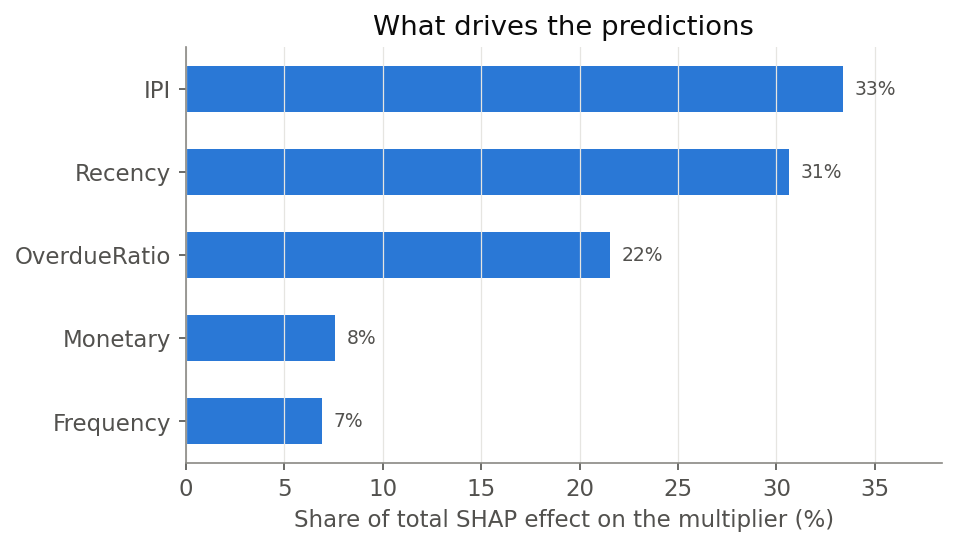
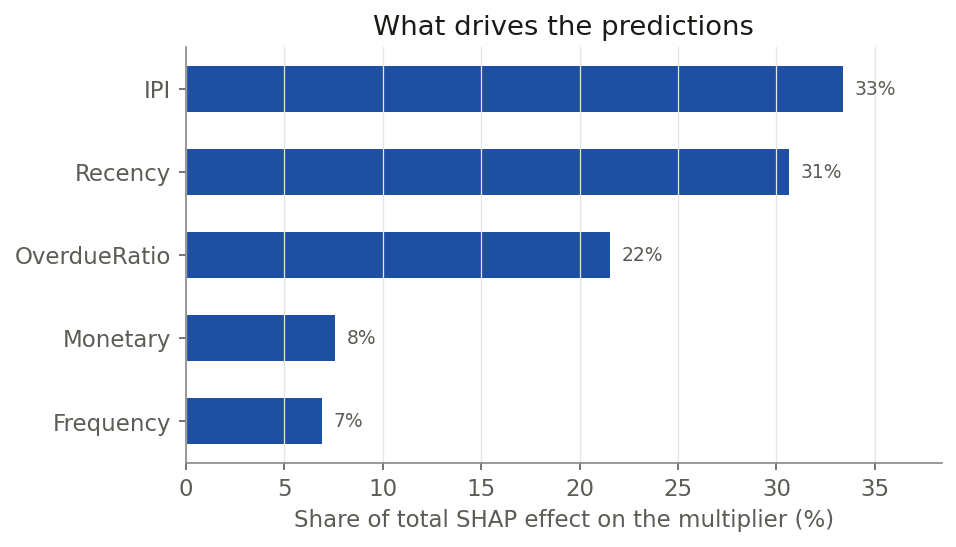
better palette and google fonts

diff --git a/site/src/styles.css b/site/src/styles.css
@@ -1,10 +1,10 @@
 /* Editorial look: warm paper, serif headings, one blue accent, one orange highlight, lots of white space. */
 :root{
-  --bg:#faf8f4;--card:#ffffff;--ink:#1b1a17;--mut:#5d5b55;--line:#e4e0d7;--acc:#1f4fa3;--accd:#1f4fa3;--soft:#f0ece3;--warn:#b4491f;--hi:#d9531e;
-  --serif:"Iowan Old Style","Palatino Linotype",Palatino,Georgia,"Times New Roman",serif;
-  --sans:Inter,system-ui,-apple-system,"Segoe UI",Roboto,sans-serif;
+  --bg:#faf8f4;--card:#ffffff;--ink:#1b1a17;--mut:#5d5b55;--line:#e4e0d7;--acc:#1f4fa3;--accd:#1f4fa3;--soft:#f0ece3;--warn:#b4491f;--hi:#d9531e;--hit:#b8430f;
+  --serif:"Source Serif 4 Variable","Iowan Old Style","Palatino Linotype",Palatino,Georgia,serif;
+  --sans:"Inter Variable",Inter,system-ui,-apple-system,"Segoe UI",Roboto,sans-serif;
 }
-@media (prefers-color-scheme:dark){:root{--bg:#16150f;--card:#1f1e18;--ink:#f1eee6;--mut:#bdb9ac;--line:#37342b;--acc:#7fa8ee;--accd:#3f6fc9;--soft:#25231b;--warn:#ee9166;--hi:#f08a5d}}
+@media (prefers-color-scheme:dark){:root{--bg:#16150f;--card:#1f1e18;--ink:#f1eee6;--mut:#bdb9ac;--line:#37342b;--acc:#7fa8ee;--accd:#3f6fc9;--soft:#25231b;--warn:#ee9166;--hi:#f08a5d;--hit:#f08a5d}}
 *{box-sizing:border-box}
 html{scroll-behavior:smooth;scroll-padding-top:70px}
 body{margin:0;background:var(--bg);color:var(--ink);font:17px/1.7 var(--sans);-webkit-font-smoothing:antialiased}
@@ -12,8 +12,8 @@ body{margin:0;background:var(--bg);color:var(--ink);font:17px/1.7 var(--sans);-w
 header{position:sticky;top:0;z-index:5;display:flex;gap:20px;flex-wrap:wrap;align-items:center;justify-content:space-between;
   padding:12px max(16px,calc((100% - 960px)/2));background:color-mix(in srgb,var(--bg) 85%,transparent);backdrop-filter:blur(10px);border-bottom:1px solid var(--line)}
 header strong{font:700 1.05rem var(--serif);letter-spacing:.01em}
-nav{display:flex;gap:18px;flex-wrap:wrap}
-nav a{color:var(--mut);text-decoration:none;font-size:.82rem;letter-spacing:.06em;text-transform:uppercase;padding:4px 0;border-bottom:2px solid transparent}
+nav{display:flex;gap:14px;flex-wrap:wrap}
+nav a{color:var(--mut);text-decoration:none;font-size:.74rem;letter-spacing:.04em;text-transform:uppercase;padding:4px 0;border-bottom:2px solid transparent}
 nav a:hover{color:var(--ink)}nav a.cur{color:var(--ink);border-bottom-color:var(--hi)}
 
 main{max-width:960px;margin:0 auto;padding:0 16px 40px;counter-reset:sec}
@@ -22,7 +22,7 @@ section{padding:72px 0 56px;border-top:1px solid var(--line);counter-increment:s
 section>p,section>ul,section>ol,section>h3,section>dl{max-width:720px}
 
 h1,h2,h3{font-family:var(--serif);font-weight:700;letter-spacing:-.01em;line-height:1.15}
-h1::before,h2::before{content:counter(sec,decimal-leading-zero);display:block;font:600 .78rem var(--sans);letter-spacing:.18em;color:var(--hi);margin-bottom:14px}
+h1::before,h2::before{content:counter(sec,decimal-leading-zero);display:block;font:600 .78rem var(--sans);letter-spacing:.18em;color:var(--hit);margin-bottom:14px}
 h1{font-size:clamp(2.3rem,6vw,3.7rem);margin:0 0 20px;max-width:18ch}
 h2{font-size:clamp(1.8rem,4vw,2.5rem);margin:0 0 20px}
 h3{font-size:1.25rem;margin:2em 0 .5em}
@@ -34,7 +34,7 @@ a{color:var(--acc)}
 .tile b{display:block;font:700 clamp(2.4rem,5vw,3.4rem)/1 var(--serif);color:var(--acc)}
 .tile span{display:block;margin-top:8px;color:var(--mut);font-size:.88rem}
 .callout{max-width:720px;margin:32px 0 0;padding:4px 0 4px 22px;border-left:4px solid var(--hi);font-family:var(--serif);font-size:1.12rem;line-height:1.6}
-.callout strong{font-family:var(--sans);font-size:.78rem;letter-spacing:.14em;text-transform:uppercase;color:var(--hi);display:block;margin-bottom:6px}
+.callout strong{font-family:var(--sans);font-size:.78rem;letter-spacing:.14em;text-transform:uppercase;color:var(--hit);display:block;margin-bottom:6px}
 
 .scroll{overflow-x:auto;margin:14px 0}
 table{border-collapse:collapse;width:100%;font-size:.9rem}
@@ -73,7 +73,7 @@ section.hero .tile span:not(.ico){display:block}
 .stages>li{position:relative;border-left:2px solid var(--line);padding:0 0 16px 28px;margin-bottom:28px}
 .stages h3{margin:0 0 8px}
 .num{position:absolute;left:-15px;top:0;display:grid;place-items:center;width:28px;height:28px;border-radius:50%;background:var(--ink);color:var(--bg);font:600 .8rem var(--sans)}
-dl{margin:0}dt{font:600 .72rem var(--sans);letter-spacing:.12em;text-transform:uppercase;color:var(--hi);margin-top:12px}dd{margin:3px 0 0}
+dl{margin:0}dt{font:600 .72rem var(--sans);letter-spacing:.12em;text-transform:uppercase;color:var(--hit);margin-top:12px}dd{margin:3px 0 0}
 
 /* Decisions */
 .decision{background:var(--card);border:1px solid var(--line);border-top:3px solid var(--acc);border-radius:6px;padding:6px 22px 18px;margin:20px 0;max-width:720px}

diff --git a/site/src/main.tsx b/site/src/main.tsx
@@ -1,5 +1,7 @@
 import React from "react";
 import ReactDOM from "react-dom/client";
+import "@fontsource-variable/inter";
+import "@fontsource-variable/source-serif-4";
 import App from "./App";
 import "./styles.css";
 

diff --git a/scripts/make_site_images.py b/scripts/make_site_images.py
@@ -10,7 +10,7 @@ import pandas as pd
 ROOT = Path(__file__).resolve().parents[1]
 OUT = ROOT / "site" / "public" / "img"
 OUT.mkdir(parents=True, exist_ok=True)
-BLUE, ORANGE, AQUA, GREY, INK, MUTED = "#2a78d6", "#eb6834", "#1baf7a", "#8a8984", "#0b0b0b", "#52514e"
+BLUE, ORANGE, AQUA, GREY, INK, MUTED = "#1f4fa3", "#d9531e", "#1baf7a", "#8a8984", "#1b1a17", "#5d5b55"
 plt.rcParams.update({"font.size": 11, "axes.spines.top": False, "axes.spines.right": False,
                      "axes.edgecolor": GREY, "axes.labelcolor": MUTED, "xtick.color": MUTED,
                      "ytick.color": MUTED, "axes.grid": True, "grid.color": "#e6e5e1",
@@ -131,7 +131,7 @@ def flow():
             x = 0.1 + i * (w + gap)
             hi = lab.startswith(("7", "9"))
             ax.add_patch(FancyBboxPatch((x, y), w, h, boxstyle="round,pad=0.02,rounding_size=0.08",
-                                        fc="#eef4fc" if not hi else "#fdf1ec", ec=BLUE if not hi else ORANGE, lw=1.3))
+                                        fc="#eaf0fa" if not hi else "#fbefe8", ec=BLUE if not hi else ORANGE, lw=1.3))
             ax.text(x + w / 2, y + h / 2, lab, ha="center", va="center", fontsize=9.5, color=INK, weight="bold")
             pos.append((x, y))
     for (x1, y1), (x2, y2) in zip(pos, pos[1:]):

diff --git a/steps_followed_5_dashboard.md b/steps_followed_5_dashboard.md
@@ -146,3 +146,12 @@ Design item 2 of the agreed list. The About section is now a hero panel: small u
 Also: on phones the top navigation is one scrollable row instead of wrapping to three lines.
 Checked by screenshots in headless Chromium: desktop light, desktop dark, phone width; headline, buttons and the three numbers fit in the first desktop screen. Other sections were not re-checked on phone or dark.
 Next in the agreed list: 3 (palette and fonts), 4 (alternating sections and card layout), 6 (segment cards, timeline polish).
+
+---
+
+## STEP 18c done: palette and fonts   [site/src/main.tsx, site/src/styles.css, scripts/make_site_images.py, site/package.json]
+Design item 3. Fonts: Inter (body) and Source Serif 4 (headings, big numbers), installed as the npm packages @fontsource-variable/inter and @fontsource-variable/source-serif-4 (pinned 5.3.0 and 5.3.1) and bundled into the build: no request to Google, works offline, the same on every machine. System serif and sans stay as fallbacks. Verified in headless Chromium that both fonts load and the headline uses Source Serif.
+Palette: tokens kept (paper #faf8f4, ink #1b1a17, blue #1f4fa3, orange #d9531e, grey tones); contrast measured on paper: orange as small text was only 3.8:1 (fails 4.5), so a darker text orange #b8430f (5.15:1) is used for small labels and section numbers, the bright orange stays for bars, underline and icons. Blue 7.3:1, muted grey 6.4:1, ink 16.4:1; dark mode values all above 7:1.
+Figures regenerated with the same blue, orange, ink and grey (they were slightly different before). The categorical palette validator from the data-viz skill was NOT run on the figure colours (blue, orange, green, grey); the model-comparison and curve figures also rely on labels, line styles and direct values, not colour alone.
+Figures still use matplotlib's default font, so their type does not match the page; changing that needs the font files for matplotlib (not done).
+Nav tightened so the eight links fit on one row beside the brand at desktop width.
